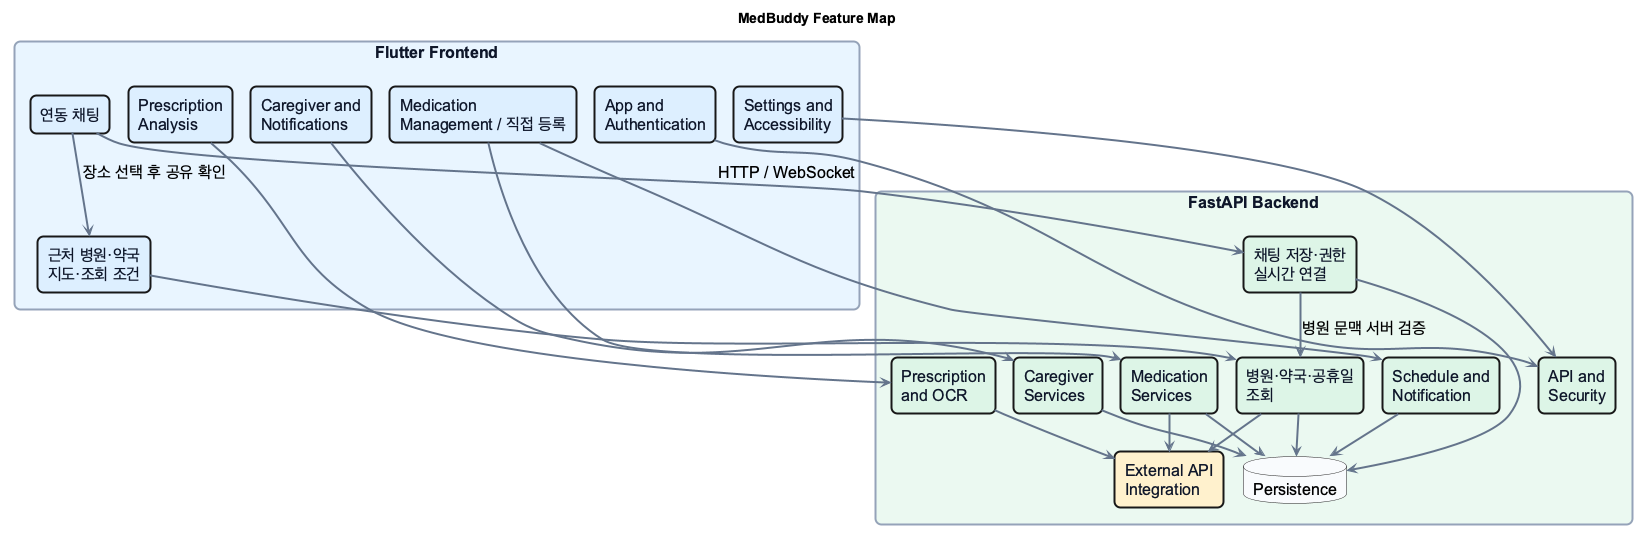
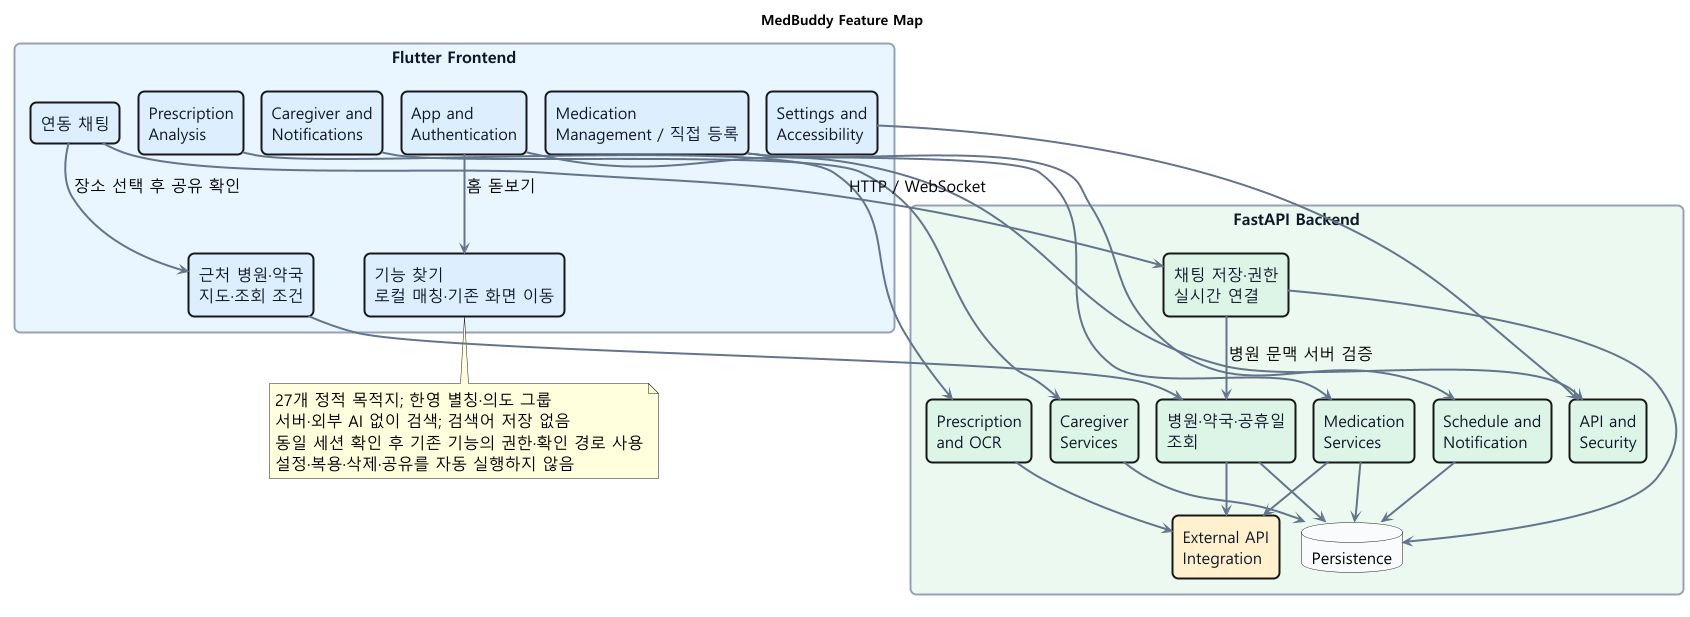
docs(uml): model local feature navigation and access boundaries

diff --git a/docs/UML/class/README.md b/docs/UML/class/README.md
@@ -2,8 +2,9 @@
 
 이 폴더에는 주요 책임과 계약을 보여주는 전체 구조 및 발표용 단계별 클래스 다이어그램을 함께 관리한다.
 같은 이름의 `.puml`은 설계 원본이고 `.png`는 그 렌더링 이미지다.
-2026-10-22 개발 브랜치 기준으로 변경된 원본 12개와 대응 PNG를 PlantUML 1.2026.8로
-로컬에서 재생성·검사했다. 변경하지 않은 그림은 기존 원본과 PNG를 유지한다.
+현재 갱신은 `beta/v0.2.4`의 `77a0f26`까지 통합한 기준과 이후 로컬 기능 찾기를
+반영한다. 이전 2026-10-22 원본 12개·대응 PNG 재생성 기록은 아래에 보존한다.
+이번 대상과 검증 결과는 별도 절에 구분하며 변경하지 않은 그림은 유지한다.
 이 문서와 그림은 개발 브랜치의 설계이며 운영 배포·출시 완료를 뜻하지 않는다.
 원본과 그림이 다르면 텍스트 원본을 기준으로 하고 대응 PNG도 함께 갱신한다.
 
@@ -34,8 +35,50 @@
   - `DoseWidgetLayout`은 런처가 배정한 높이와 글자 배율에 맞춰 표시 밀도를 조절하며 기록·조회 경로는 변경하지 않는다.
 - `07_NearbyCare.puml` / `07_NearbyCare.png`
   - 공통 병원·약국 지도 UI와 별도 병원 조회·공휴일 확인, 서버가 검증한 채팅 공유 문맥을 보여준다.
+- `08_FeatureSearch.puml` / `08_FeatureSearch.png`
+  - 로컬 검색 UI·매칭 Control·정적 목적지 Entity와 기존 화면 연결 경계를 보여준다.
+  - 27개 목적지의 전체 목록은 [기능 찾기 문서](../../Feature%20Search.md)를 따른다.
 
 ## Usage
+
+### v0.2.4 기능 찾기와 현행화
+
+기존 화면·서버 API·DB 구조를 유지하고 탐색 진입점을 보완한다. `FeatureSearchUI`는
+화면 메모리의 검색어를 `FindAppFeature`로 평가하고 사용자가 선택한 `AppFeature`만
+반환한다. `HomeScreen`은 같은 세션을 확인해 기존 화면으로 연결하며 검색 자체에는
+외부 AI·네트워크·계정 자료 조회가 없다. 설정 목적지는 분류·스크롤 위치만 지정한다.
+본인 기록과 연결 환자 조회는 구분하고, 공유 목적지는 최초 조회 성공 후 기존 확인창만
+연다. 변경·삭제·전송에는 기존 기능의 사용자 확인과 Control 권한 검증을 적용한다.
+
+- `01_FeatureMap`에 프런트엔드 전용 기능 찾기를 추가한다.
+- `08_FeatureSearch`와 [FeatureSearch 시퀀스](../sequence/FeatureSearch.puml)를 추가한다.
+- 기존 유스케이스 그림·설명에 UC-38을 추가한다. 모든 목적지를 필수 실행하는
+  `include` 관계로 표현하지 않으며 상세 이동은 전용 시퀀스에서 구분한다.
+- PRN 최초 로딩, 계정 welcome 정렬과 영어 표시 보완은 상태·릴리스 문서에서 다룬다.
+  기존 알림 채널 ID, 복용 데이터, 사용자 권한 계약은 바뀌지 않는다.
+- 자연어 문서는 월 달력, 암호화 PRN 대기, CSV 최대 90일/채팅 최대 31일,
+  통합 기기 알림 설정 등 이미 반영된 최신 베타 내용을 함께 맞춘다.
+
+전체 `ClassDiagram`과 `OverallSystemSequenceDiagram`은 기존 통합 기준선을 유지한다.
+이번 탐색의 상세는 새 기능별 그림과 [UC-38 설명](../usecase/UseCaseDescription.md)을
+기준으로 한다. 과거 릴리스·실기기 검증 결과를 이번 로컬 변경의 검증으로 간주하지 않는다.
+
+2026-10-25 검증 결과:
+
+- PlantUML 1.2026.8로 전체 원본 19개의 구문 검사를 수행했고 종료 코드는 0이다.
+- 이번 대상 `01_FeatureMap`, `08_FeatureSearch`, `FeatureSearch` 시퀀스,
+  `UseCaseDiagram`의 PNG 4개를 로컬에서 재생성했다. 원본을 외부 서버로 보내지 않았다.
+- PNG 읽기·크기·원본 이후 갱신 시각을 확인하고 이미지를 직접 검사했다.
+  새 기능 찾기 그림은 정상 표시되며, 기존 대형 유스케이스의 복잡한 관계선 배치는
+  유지한다. 확대가 필요한 전체 그림을 발표용 단일 화면으로 재구성한 작업은 아니다.
+- 변경한 자연어 문서 7개의 상대 링크와 코드의 목적지 27개 일치를 확인했다.
+  추가 문장에는 로컬 절대경로·이메일·대표적인 키 패턴이 없음을 검사했다.
+- 애플리케이션 테스트·실기기 동작·출시 보안 검증은 이 문서 검증에 포함하지 않는다.
+
+재검증 시 기존 안내대로 `JAVA_HOME`, `PLANTUML_JAR`를 준비하고 저장소 루트에서
+전체 원본에 `-charset UTF-8 -checkonly -failfast2`를 적용한다. 위 4개 원본의 PNG는
+`-DPLANTUML_LIMIT_SIZE=12000`과 `-tpng`으로 생성한다. 아래 12개 목록은 과거
+2026-10-22 재생성 기록이며 이번 변경 목록과 구분한다.
 
 ### 2026-10-22 개발 브랜치 기준
 
